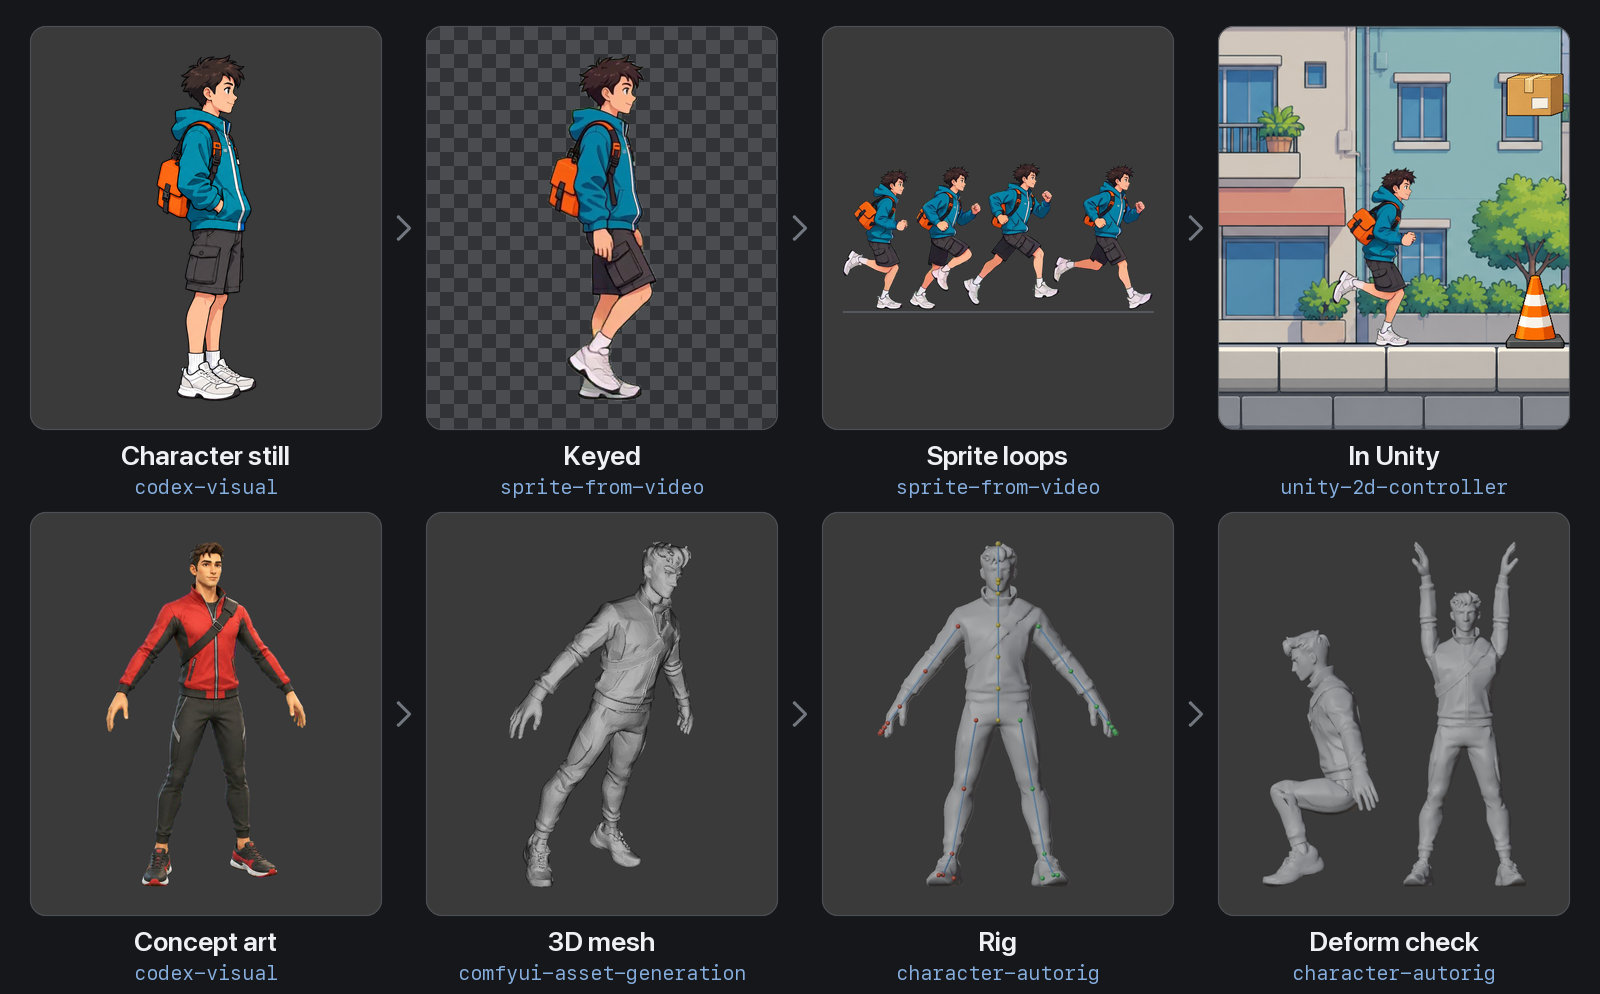
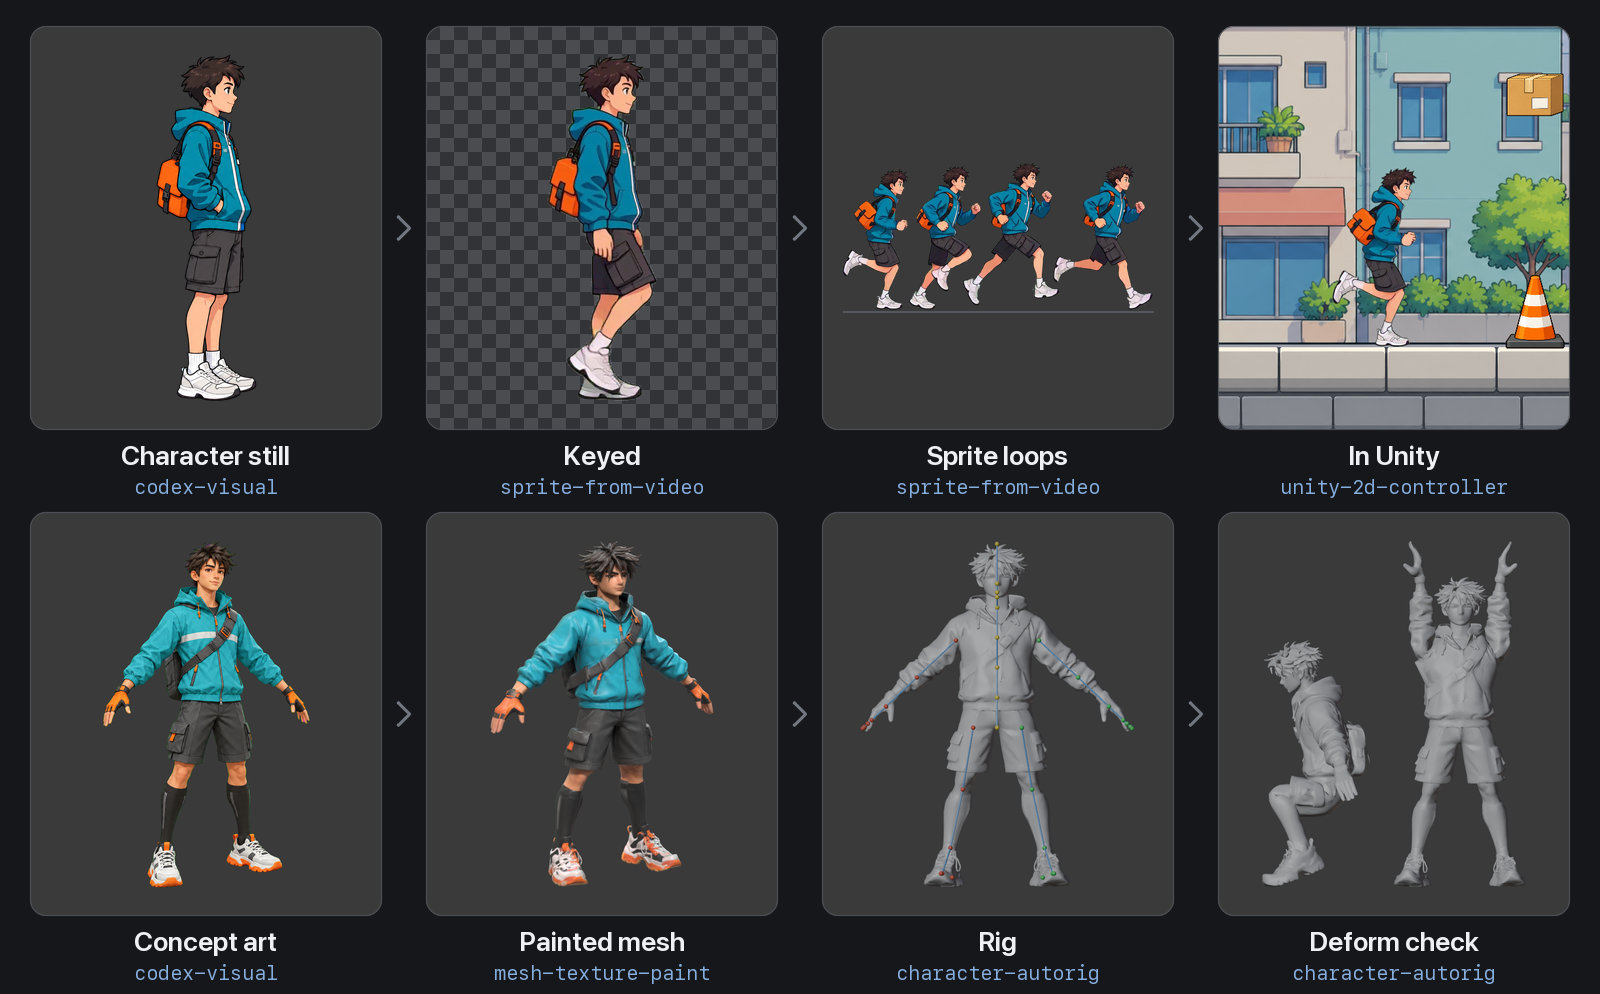
unity-dev 0.36.2 — the rigged-character example follows the teal courier from the texture example: its mesh repainted by mesh-texture-paint, rigged by character-autorig, filmed by MiniMax H3 from two cameras and solved onto its own skeleton by humanoid-motion with a warm-started reader; motion.gif a
Claude-Session: https://claude.ai/code/session_01SwsCxaUSy8i3imRtT77vXb

diff --git a/skills/blender-retarget/scripts/tests/test_arp_export.py b/skills/blender-retarget/scripts/tests/test_arp_export.py
@@ -3,14 +3,17 @@
     Blender --background --factory-startup --python tests/test_arp_export.py [-- <scratch dir>]
 
 Needs no Auto-Rig Pro: the test registers a stand-in `arp.arp_export_fbx_panel` that writes the
-selection with Blender's own FBX exporter and records the add-on's scene settings it saw, and those
-scene properties. A small rig skins a cube with five weights on some vertices. Prints `PASS <name>`
+selection with Blender's own FBX exporter and records the add-on's scene settings and the image
+paths it saw, and those scene properties. A small rig skins a cube with five weights on some vertices. Prints `PASS <name>`
 or `FAIL <name>: <why>` per case and exits 1 when any case fails. Covers: export writes the file
 with the pipeline's settings (Unity, humanoid, master trajectory, units x100) set during the call
 and put back after, limits every vertex to 4 deform weights, writes the skeleton of the re-imported
 file and carries the auto-rig-pro licence on the record; without the limit five weights fail
 arp.export_max_influences; a rig no mesh is weighted to refuses not_bound; no `fbx` refuses
-export_path_missing; a missing armature refuses object_missing.
+export_path_missing; a missing armature refuses object_missing; two packed textures with no path (as a
+.glb import leaves them) reach the exporter with a file name each (the add-on's own FBX exporter embeds
+one picture per path and, unlike Blender's, names no pathless image), read back as two pictures, and
+get their empty paths back after.
 """
 import json
 import os
@@ -29,6 +32,7 @@ TMP = argv[0] if argv else tempfile.mkdtemp(prefix="brt_arp_export_")
 os.makedirs(TMP, exist_ok=True)
 RESULTS: list[bool] = []
 SEEN: list = []
+PATHS: list = []
 SETTINGS = ("arp_engine_type", "arp_export_rig_type", "arp_ge_master_traj", "arp_units_x100")
 
 
@@ -49,8 +53,9 @@ class ARP_OT_arp_export_fbx_panel(bpy.types.Operator):
 
     def execute(self, context):
         SEEN.append({k: getattr(context.scene, k) for k in SETTINGS})
+        PATHS.append({i.name: i.filepath_raw for i in bpy.data.images})
         bpy.ops.export_scene.fbx(filepath=self.filepath, use_selection=True, add_leaf_bones=False,
-                                 object_types={'ARMATURE', 'MESH'})
+                                 object_types={'ARMATURE', 'MESH'}, path_mode='COPY', embed_textures=True)
         return {'FINISHED'}
 
 
@@ -134,6 +139,40 @@ def case_not_bound_refuses():
     assert not os.path.exists(os.path.join(TMP, "none.fbx")) and not SEEN
 
 
+def case_packed_textures_keep_apart():
+    _, mesh = scene()
+    mat = bpy.data.materials.new("RunnerMat")
+    mat.use_nodes = True
+    tree = mat.node_tree
+    bsdf = next(n for n in tree.nodes if n.type == 'BSDF_PRINCIPLED')
+    images = []
+    for name, colour in (("Image_0", (1.0, 0.0, 0.0, 1.0)), ("Image_2", (0.0, 0.0, 1.0, 1.0))):
+        image = bpy.data.images.new(name, 8, 8)
+        image.pixels[:] = colour * 64
+        image.pack()
+        image.filepath_raw = ""
+        images.append(image)
+    base = tree.nodes.new("ShaderNodeTexImage")
+    base.image = images[0]
+    tree.links.new(base.outputs["Color"], bsdf.inputs["Base Color"])
+    normal_tex = tree.nodes.new("ShaderNodeTexImage")
+    normal_tex.image = images[1]
+    normal = tree.nodes.new("ShaderNodeNormalMap")
+    tree.links.new(normal_tex.outputs["Color"], normal.inputs["Color"])
+    tree.links.new(normal.outputs["Normal"], bsdf.inputs["Normal"])
+    mesh.data.materials.append(mat)
+    fbx = os.path.join(TMP, "textured.fbx")
+    out = export(fbx=fbx)
+    assert out["ok"], [g for g in out["gates"] if not g["pass"]] or out.get("reason")
+    seen = [PATHS[-1].get(i.name, "") for i in images]
+    assert all(os.path.splitext(s)[1] for s in seen) and len(set(seen)) == 2, f"paths at export: {seen}"
+    assert [i.filepath_raw for i in images] == ["", ""], "image paths not put back"
+    before = set(bpy.data.images)
+    bpy.ops.import_scene.fbx(filepath=fbx)
+    read = sorted(tuple(round(c, 2) for c in i.pixels[:3]) for i in bpy.data.images if i not in before)
+    assert read == [(0.0, 0.0, 1.0), (1.0, 0.0, 0.0)], read
+
+
 def case_refusals():
     scene()
     out = export()
@@ -147,7 +186,8 @@ register()
 for name, fn in (("export_with_pipeline_settings", case_export_ok),
                  ("five_weights_fail_without_limit", case_not_limited_fails),
                  ("unbound_rig_refuses", case_not_bound_refuses),
-                 ("missing_path_and_rig_refuse", case_refusals)):
+                 ("missing_path_and_rig_refuse", case_refusals),
+                 ("packed_textures_read_back_apart", case_packed_textures_keep_apart)):
     check(name, fn)
 
 print(f"{sum(RESULTS)}/{len(RESULTS)} passed", flush=True)

diff --git a/skills/blender-retarget/scripts/brt_arp.py b/skills/blender-retarget/scripts/brt_arp.py
@@ -1457,6 +1457,51 @@ def _weighted(rig, meshes) -> tuple[set, dict]:
     return used, stats
 
 
+_IMAGE_EXT = {"PNG": ".png", "JPEG": ".jpg", "TARGA": ".tga", "TARGA_RAW": ".tga", "BMP": ".bmp",
+              "TIFF": ".tif", "OPEN_EXR": ".exr", "HDR": ".hdr", "WEBP": ".webp"}
+
+
+def _material_images(meshes: list) -> list:
+    """The images the meshes' node materials use, once each."""
+    found = []
+    for obj in meshes:
+        for slot in obj.material_slots:
+            tree = slot.material.node_tree if slot.material and slot.material.use_nodes else None
+            for node in tree.nodes if tree else ():
+                image = getattr(node, "image", None)
+                if image is not None and image not in found:
+                    found.append(image)
+    return found
+
+
+def _name_packed_images(meshes: list) -> list:
+    """Give each packed image the meshes use a file name of its own for the export; returns (image, old
+    path) pairs to put back. An image packed from a .glb has no path, and the FBX exporter embeds one
+    picture per path, so every such texture would read back as the first (the base colour in the
+    normal slot)."""
+    images = _material_images(meshes)
+    taken = {os.path.basename(i.filepath_raw).lower() for i in images
+             if i.packed_file is None and i.filepath_raw}
+    changed = []
+    for image in images:
+        if image.packed_file is None:
+            continue
+        name = os.path.basename(image.filepath_raw) if image.filepath_raw else ""
+        if name and os.path.splitext(name)[1] and name.lower() not in taken:
+            taken.add(name.lower())
+            continue
+        stem = "".join(c if c.isalnum() or c in "-_" else "_" for c in image.name) or "texture"
+        ext = _IMAGE_EXT.get(image.file_format, ".png")
+        new, k = stem + ext, 1
+        while new.lower() in taken:
+            k += 1
+            new = f"{stem}_{k}{ext}"
+        taken.add(new.lower())
+        changed.append((image, image.filepath_raw))
+        image.filepath_raw = "//" + new
+    return changed
+
+
 def _reimport(fbx: str) -> tuple[dict | None, dict, str | None]:
     """Import the FBX, read its skeleton and skin, take the import back. (skeleton, stats, error)."""
     sub = C.Tracker()
@@ -1495,14 +1540,18 @@ def _export_and_read(params: dict, ids: dict, override: dict, scene, export: dic
     `export` set for the call and put back), import the file again, write its skeleton and take
     the import back. Appends the export gates to `gates` and the results to `out`."""
     previous, _ = _scene_settings(scene, export)
+    renamed = []
     try:
         for name, value in export.items():
             setattr(scene, name, value)
         if os.path.exists(fbx):
             os.remove(fbx)
+        renamed = _name_packed_images(meshes)
         _select_only([rig, *meshes], rig)
         _call(ids["arp.arp_export_fbx_panel"], override, filepath=fbx)
     finally:
+        for image, path in renamed:
+            image.filepath_raw = path
         for name, value in previous.items():
             with contextlib.suppress(AttributeError, TypeError, ValueError):
                 setattr(scene, name, value)

diff --git a/CHANGELOG.md b/CHANGELOG.md
@@ -2,6 +2,24 @@
 
 Versions are the plugin's, in `.claude-plugin/plugin.json`.
 
+## 0.36.2
+
+The rigged-character example now follows the courier from the texture example, through its
+repainted mesh, and an Auto-Rig Pro export keeps every texture of an image-to-3D mesh.
+
+- **`blender-retarget` → `brt_arp.py` export.** An image packed from a .glb has no file path, and
+  Auto-Rig Pro's own FBX exporter embeds one picture per path and, unlike Blender's, names no
+  pathless image. Every texture of an image-to-3D mesh then read back as the first one: the base
+  colour sat in the normal slot, in Blender and in Unity. The export now gives each packed image a
+  file name of its own for the call and puts the empty path back after.
+  `tests/test_arp_export.py` checks the names the exporter sees and that two packed textures read
+  back apart.
+- **README.** "From one drawing to a moving, rigged character" is redone with the teal courier
+  from the texture example: its mesh repainted by `mesh-texture-paint`, rigged by
+  `character-autorig`, filmed by MiniMax H3 from two cameras, and solved onto its own skeleton by
+  `humanoid-motion` with a reader warm-started from the earlier runner's. The banner's 3D row shows
+  the same courier: concept, painted mesh, rig and deform check. The three translations follow.
+
 ## 0.36.1
 
 CI is green again. No skill method, threshold or manifest description changes.

diff --git a/.github/README.ja.md b/.github/README.ja.md
@@ -16,7 +16,7 @@
 
 [繁體中文](README.zh-TW.md) · [简体中文](README.zh-CN.md) · **日本語** · [English](../README.md)
 
-<img src="media/hero.jpg" alt="二段構成で、どちらの段も一体のキャラクターが四つの skill を通っていく様子。上段は 2D：キャラクターの静止画、同じキャラクターを透過に抜いたもの、走りループのコマを並べた帯、Unity のシーンで走るスプライト。下段は 3D：コンセプト画、生成された 3D メッシュ、リグの関節マーカー、極端なポーズを取るリグ付きキャラクター" width="100%">
+<img src="media/hero.jpg" alt="二段構成で、どちらの段も一体のキャラクターが四つの skill を通っていく様子。上段は 2D：キャラクターの静止画、同じキャラクターを透過に抜いたもの、走りループのコマを並べた帯、Unity のシーンで走るスプライト。下段は 3D：別の配達員のコンセプト画、そこから生成しコンセプト画に合わせて塗り直した 3D メッシュ、リグの関節マーカー、二つの極端なポーズを取るリグ付きキャラクター" width="100%">
 
 </div>
 

diff --git a/README.md b/README.md
@@ -16,7 +16,7 @@
 
 <p><b>English</b> · <a href=".github/README.zh-TW.md">繁體中文</a> · <a href=".github/README.zh-CN.md">简体中文</a> · <a href=".github/README.ja.md">日本語</a></p>
 
-<img src=".github/media/hero.jpg" alt="Two rows, each one character through four skills. Top, 2D: a character still, the same character keyed onto transparency, a strip of its run loop, and the sprite running in a Unity scene. Bottom, 3D: a concept drawing, its generated 3D mesh, the rig's joint markers, and the rigged character in an extreme pose" width="100%">
+<img src=".github/media/hero.jpg" alt="Two rows, each one character through four skills. Top, 2D: a character still, the same character keyed onto transparency, a strip of its run loop, and the sprite running in a Unity scene. Bottom, 3D: a concept drawing of another courier, its generated 3D mesh repainted from that drawing, the rig's joint markers, and the rigged character in two extreme poses" width="100%">
 
 </div>
 

diff --git a/.github/README.zh-CN.md b/.github/README.zh-CN.md
@@ -16,7 +16,7 @@
 
 [繁體中文](README.zh-TW.md) · **简体中文** · [日本語](README.ja.md) · [English](../README.md)
 
-<img src="media/hero.jpg" alt="上下两行，每行都是同一个角色依次经过四个 skill。上行是 2D：一张角色静态图、抠成透明背景的同一个角色、一条跑步循环的帧序列，以及在 Unity 场景里奔跑的 sprite。下行是 3D：一张概念图、由它生成的 3D 网格、骨架的关节标记点，以及摆出极限姿势的绑骨角色" width="100%">
+<img src="media/hero.jpg" alt="上下两行，每行都是同一个角色依次经过四个 skill。上行是 2D：一张角色静态图、抠成透明背景的同一个角色、一条跑步循环的帧序列，以及在 Unity 场景里奔跑的 sprite。下行是 3D：另一位快递员的概念图、由它生成并按概念图重新上色的 3D 网格、骨架的关节标记点，以及摆出两个极限姿势的绑骨角色" width="100%">
 
 </div>
 

diff --git a/.github/README.zh-TW.md b/.github/README.zh-TW.md
@@ -16,7 +16,7 @@
 
 **繁體中文** · [简体中文](README.zh-CN.md) · [日本語](README.ja.md) · [English](../README.md)
 
-<img src="media/hero.jpg" alt="兩列，每列都是同一個角色走過四個 skill。上列是 2D：一張角色靜態圖、去背成透明的同一個角色、一段跑步循環的連續格，以及在 Unity 場景裡奔跑的 sprite。下列是 3D：一張概念圖、由它生成的 3D 網格、骨架的關節標記點，以及擺出極端姿勢的綁骨角色" width="100%">
+<img src="media/hero.jpg" alt="兩列，每列都是同一個角色走過四個 skill。上列是 2D：一張角色靜態圖、去背成透明的同一個角色、一段跑步循環的連續格，以及在 Unity 場景裡奔跑的 sprite。下列是 3D：另一位快遞員的概念圖、由它生成並依概念圖重新上色的 3D 網格、骨架的關節標記點，以及擺出兩個極端姿勢的綁骨角色" width="100%">
 
 </div>
 
